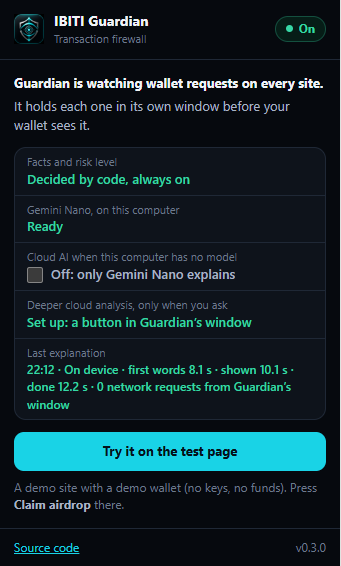
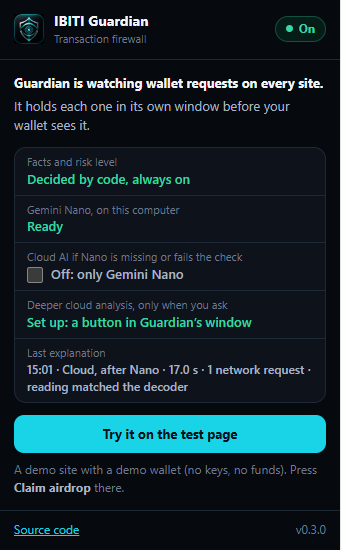
docs: screenshots of the new window (real Gemini Nano, real cloud answer) and the panel

Changed region(s): [[0.0, 0.0, 0.9971, 0.9891]]

diff --git a/README.md b/README.md
@@ -14,9 +14,9 @@ does the same check in front of your real wallet).
 <a href="https://youtu.be/1xGWgzLbLEM"><img src="docs/video.jpg" alt="Watch the video: IBITI Guardian for Chrome — know what you sign" width="640"></a>
 
 <p>
-  <img src="docs/review-on-device.png" alt="Guardian holding an unlimited approval: facts decoded by code, explained on device by Gemini Nano" width="360">
+  <img src="docs/review-on-device.png" alt="Guardian holding an unlimited approval: the sentence and the warnings are written by code; Gemini Nano read the request on the device" width="360">
   &nbsp;
-  <img src="docs/review-cloud.png" alt="The optional cloud analysis through Firebase AI Logic" width="360">
+  <img src="docs/review-cloud.png" alt="The optional cloud analysis through Firebase AI Logic: a scam pattern and things to check, picked from fixed lists that code checks" width="360">
 </p>
 
 Built for #BuildHybridAI 2026.
